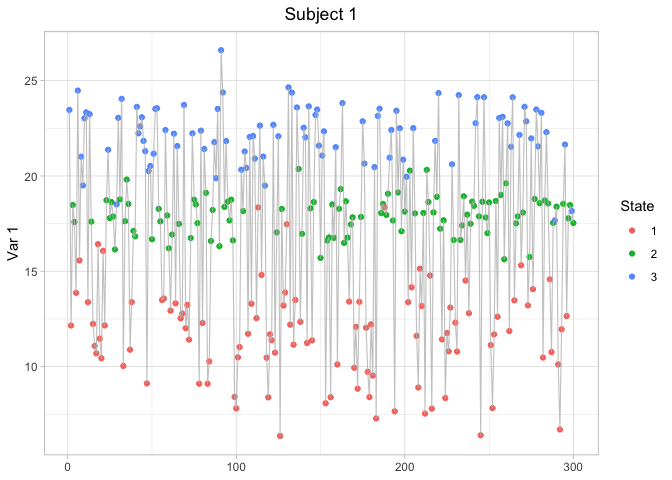
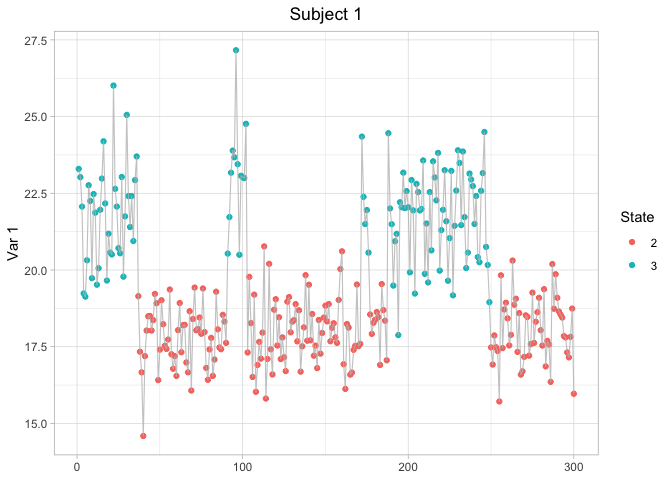
README update

diff --git a/README.md b/README.md
@@ -30,36 +30,32 @@ devtools::install_github("simonecollier/lizardHMM")
 
 Set up a basic HMM with data distributed according to normal state
 dependent distributions. This HMM will have 3 states, 2 variables, 1
-subject, and 2 covariates (included in the computation of the transition
-probability matrix). We also define the design matrix which indicates
-the values of the covariates at each point in time. Then we go about
-generating data from this HMM.
+subject, and no covariates (included in the computation of the
+transition probability matrix). We also define the design matrix which
+indicates the values of the covariates at each point in time. Then we go
+about generating data from this HMM.
 
 ``` r
 library(lizardHMM)
 
 hmm1 <- list(num_states = 3,
-             num_variables = 2,
+             num_variables = 1,
              num_subjects = 1,
-             mu = list(matrix(c(12, 18, 22), ncol = 3, nrow = 1, byrow = TRUE), 
-                       matrix(c(-12, -7, 0), ncol = 3, nrow = 1, byrow = TRUE)),
-             sigma = list(matrix(c(3, 1, 1.5), ncol = 3, nrow = 1, byrow = TRUE), 
-                          matrix(c(1, 3, 2), ncol = 3, nrow = 1, byrow = TRUE)),
-             beta  = matrix(c(0.01, 0.02, 0.001,
-                              0.01, 0.03, 0.004,
-                              0.01, 0.01, 0.003,
-                              0.01, 0.04, 0.002,
-                              0.01, 0.01, 0.004,
-                              0.01, 0.03, 0.001), ncol = 3, nrow = 6, byrow = TRUE),
+             num_covariates = 0,
+             mu = list(matrix(c(12, 18, 22), ncol = 3, nrow = 1, byrow = TRUE)),
+             sigma = list(matrix(c(3, 1, 1.5), ncol = 3, nrow = 1, byrow = TRUE)),
+             beta  = matrix(c(-4.931936,
+                              -4.316150,
+                              -5.080883,
+                              -3.541777,
+                              -3.793888,
+                              -3.551066), nrow = 6, byrow = TRUE),
              delta = list(c(0.3, 0.2, 0.5)))
 
-num_sample <- 1000
+num_sample <- 10000
 
 design           <- list(matrix(0, nrow = 1000, ncol = 3))
 design[[1]][, 1] <- 1 # First column is the intercept
-design[[1]][, 2] <- sample(c(0, 1), size = 1000, 
-                           prob = c(0.3, 0.7), replace = TRUE)
-design[[1]][, 3] <- rnorm(1000, mean = 5, sd = 1)
 
 sample <- norm_generate_sample(num_sample, hmm1, design)
 x      <- sample$observ
@@ -75,46 +71,34 @@ timeseries_plot(x, sample$state, hmm1$num_subjects, hmm1$num_variables)
 
 <img src="man/figures/README-timeseries_plot-1.png" width="100%" />
 
-    #> 
-    #> [[2]]
-
-<img src="man/figures/README-timeseries_plot-2.png" width="100%" />
-
 The histogram of the data for each subject and variable can be gnerated,
 overlayed with the state dependent normal
 distributions.
 
 ``` r
 norm_hist(sample, hmm1$num_states, hmm1$num_variables, hmm1$num_subjects,
-          hmm1, width = 1, x_step = 0.2)
+          hmm1, width = 0.05, x_step = 0.1)
 #> [[1]]
 ```
 
 <img src="man/figures/README-norm_hist-1.png" width="100%" />
-
-    #> 
-    #> [[2]]
-
-<img src="man/figures/README-norm_hist-2.png" width="100%" />
 
 Now we can try fitting the data we generated with a basic HMM with
 reasonable guesses for the initial parameters.
 
 ``` r
 num_states = 3
-num_variables = 2
+num_variables = 1
 num_subjects = 1
-num_covariates = 2
-mu0 <- list(matrix(c(11, 19, 23), ncol = 3, nrow = 1, byrow = TRUE),
-            matrix(c(-10, -5, 1), ncol = 3, nrow = 1, byrow = TRUE))
-sigma0 <- list(matrix(c(3, 3, 3), ncol = 3, nrow = 1, byrow = TRUE),
-               matrix(c(3, 3, 3), ncol = 3, nrow = 1, byrow = TRUE))
-beta0 <- matrix(c(-2, 0, 0,
-                  -2, 0, 0,
-                  -2, 0, 0,
-                  -2, 0, 0,
-                  -2, 0, 0,
-                  -2, 0, 0), ncol = 3, nrow = 6, byrow = TRUE)
+num_covariates = 0
+mu0 <- list(matrix(c(11, 19, 23), ncol = 3, nrow = 1, byrow = TRUE))
+sigma0 <- list(matrix(c(3, 3, 3), ncol = 3, nrow = 1, byrow = TRUE))
+beta0 <- matrix(c(-2,
+                  -2,
+                  -2,
+                  -2,
+                  -2,
+                  -2), nrow = 6, byrow = TRUE)
 delta0 <- list(c(1/3, 1/3, 1/3))
 
 hmm_fit <- norm_fit_hmm(x, design, num_states, num_variables, num_subjects,
@@ -132,93 +116,69 @@ conf_intervals
 #> $mu$estimate
 #> $mu$estimate$`1`
 #>          [,1]     [,2]     [,3]
-#> [1,] 11.58588 18.01754 22.09549
-#> 
-#> $mu$estimate$`2`
-#>           [,1]      [,2]       [,3]
-#> [1,] -12.01727 -7.121748 0.06469706
+#> [1,] 11.96189 17.97288 22.00477
 #> 
 #> 
 #> $mu$upper
 #> $mu$upper$`1`
 #>          [,1]     [,2]     [,3]
-#> [1,] 11.82979 18.09373 22.28533
-#> 
-#> $mu$upper$`2`
-#>           [,1]      [,2]      [,3]
-#> [1,] -11.94133 -6.768608 0.2781436
+#> [1,] 12.05534 18.01298 22.05621
 #> 
 #> 
 #> $mu$lower
 #> $mu$lower$`1`
 #>          [,1]     [,2]     [,3]
-#> [1,] 11.20647 17.91413 21.94217
-#> 
-#> $mu$lower$`2`
-#>           [,1]      [,2]       [,3]
-#> [1,] -12.12254 -7.433414 -0.1706516
+#> [1,] 11.89528 17.93744 21.93764
 #> 
 #> 
 #> 
 #> $sigma
 #> $sigma$estimate
 #> $sigma$estimate$`1`
-#>          [,1]      [,2]     [,3]
-#> [1,] 2.676086 0.9136812 1.538067
-#> 
-#> $sigma$estimate$`2`
-#>           [,1]     [,2]     [,3]
-#> [1,] 0.9757265 3.101921 2.067543
+#>          [,1]     [,2]     [,3]
+#> [1,] 2.990271 0.991765 1.521619
 #> 
 #> 
 #> $sigma$upper
 #> $sigma$upper$`1`
-#>         [,1]    [,2]     [,3]
-#> [1,] 2.96396 1.00425 1.659892
-#> 
-#> $sigma$upper$`2`
-#>          [,1]     [,2]     [,3]
-#> [1,] 1.058371 3.319758 2.244455
+#>          [,1]    [,2]     [,3]
+#> [1,] 3.050674 1.02359 1.565832
 #> 
 #> 
 #> $sigma$lower
 #> $sigma$lower$`1`
-#>          [,1]      [,2]     [,3]
-#> [1,] 2.421643 0.8391876 1.417103
-#> 
-#> $sigma$lower$`2`
-#>           [,1]     [,2]     [,3]
-#> [1,] 0.9013176 2.865315 1.910581
+#>         [,1]      [,2]     [,3]
+#> [1,] 2.91302 0.9700301 1.481842
 #> 
 #> 
 #> 
 #> $beta
 #> $beta$estimate
-#>              [,1]        [,2]        [,3]
-#> [1,]  0.420374334 -0.21621031 -0.05248346
-#> [2,]  0.005684073 -0.18367517  0.04230500
-#> [3,] -0.244491016 -0.22512241  0.08678225
-#> [4,]  0.480478542 -0.83366884  0.03984857
-#> [5,]  0.693709952 -0.04331149 -0.12156931
-#> [6,]  1.004862618 -0.14665353 -0.15933831
+#>           [,1]
+#> [1,] -5.029704
+#> [2,] -4.467052
+#> [3,] -5.163355
+#> [4,] -3.488589
+#> [5,] -3.787573
+#> [6,] -3.418988
 #> 
 #> $beta$upper
-#>          [,1]       [,2]       [,3]
-#> [1,] 1.510681  0.3607881 0.22442700
-#> [2,] 1.591337  0.4610303 0.34424303
-#> [3,] 1.362749  0.4378531 0.32153004
-#> [4,] 1.781039 -0.3043884 0.25735999
-#> [5,] 2.143448  0.5635266 0.09755194
-#> [6,] 2.201618  0.4339337 0.11784313
+#>           [,1]
+#> [1,] -4.658879
+#> [2,] -4.196056
+#> [3,] -4.589238
+#> [4,] -3.272916
+#> [5,] -3.524610
+#> [6,] -3.173953
 #> 
 #> $beta$lower
-#>            [,1]       [,2]       [,3]
-#> [1,] -0.8672615 -0.8341614 -0.3591482
-#> [2,] -1.5233597 -0.6792339 -0.1986393
-#> [3,] -1.3817692 -0.8574147 -0.1629289
-#> [4,] -1.1822415 -1.4199295 -0.2408767
-#> [5,] -0.5519370 -0.7521585 -0.3520891
-#> [6,] -0.3344039 -0.7681154 -0.4011995
+#>           [,1]
+#> [1,] -5.370534
+#> [2,] -4.765351
+#> [3,] -5.778031
+#> [4,] -3.703569
+#> [5,] -4.073880
+#> [6,] -3.658818
 ```
 
 Using the viterbi algorithm we can decode the hidden states according to
@@ -232,11 +192,6 @@ timeseries_plot(x, viterbi, num_subjects, num_variables)
 
 <img src="man/figures/README-viterbi-1.png" width="100%" />
 
-    #> 
-    #> [[2]]
-
-<img src="man/figures/README-viterbi-2.png" width="100%" />
-
 We can compute the confidence intervals of the state dependent normal
 distributions and compare them to the histogram of
 data.
@@ -244,13 +199,40 @@ data.
 ``` r
 norm_hist_ci(x, viterbi, num_states, num_subjects, num_variables, hmm_fit, 
              state_dep_dist_pooled = FALSE,
-             width = 1, n = 100, level = 0.975, x_step = 0.2)
+             width = 0.05, n = 100, level = 0.975, x_step = 0.1)
 #> [[1]]
 ```
 
 <img src="man/figures/README-hist_ci-1.png" width="100%" />
 
-    #> 
-    #> [[2]]
+The normal pseudo-residuals can be computed and the plots displayed
+below.
 
-<img src="man/figures/README-hist_ci-2.png" width="100%" />
+``` r
+pseudo_residuals <- norm_forecast_psr(x, hmm_fit)
+psr_plot(pseudo_residuals, num_subjects)
+#> [[1]]
+```
+
+<img src="man/figures/README-unnamed-chunk-2-1.png" width="100%" />
+
+``` r
+psr_hist(pseudo_residuals, num_subjects)
+#> [[1]]
+```
+
+<img src="man/figures/README-unnamed-chunk-2-2.png" width="100%" />
+
+``` r
+psr_qq(pseudo_residuals, num_subjects)
+#> [[1]]
+```
+
+<img src="man/figures/README-unnamed-chunk-2-3.png" width="100%" />
+
+``` r
+psr_acf(pseudo_residuals, num_subjects)
+#> [[1]]
+```
+
+<img src="man/figures/README-unnamed-chunk-2-4.png" width="100%" />
